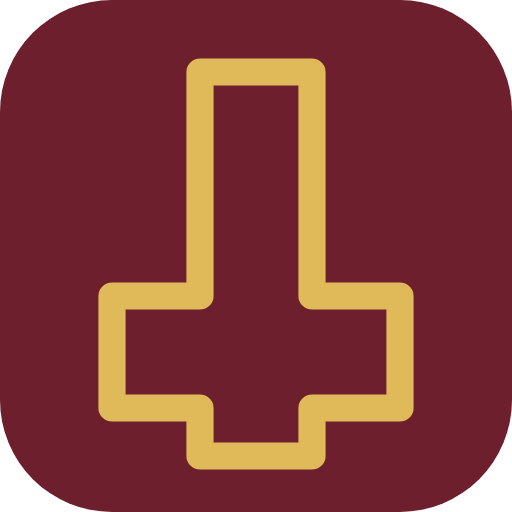
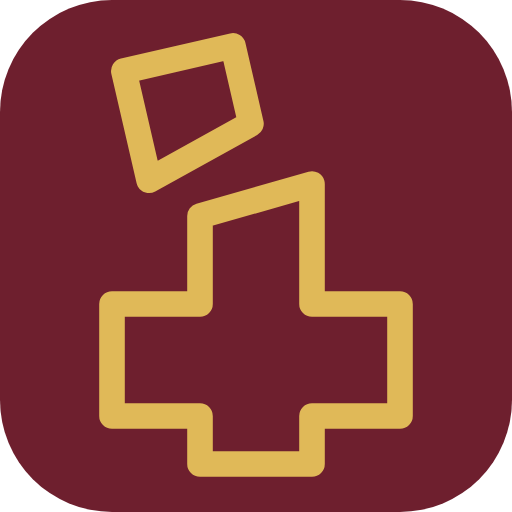
Break the cross, and cite the hadith it follows
- The brand mark is now a hollow, inverted cross broken through the shaft: the
  clean vector, the worn mask version, the inline header mark, the favicon and
  touch icons and the social preview are all redrawn
- The Credits page gains "The mark": the hadith that Jesus, son of Mary, will
  break the cross (Sahih al-Bukhari 2476), in Arabic and English with its
  references. The Arabic is set in Noto Naskh Arabic (SIL OFL), converted to
  WOFF2 and used there only; its licence notes are kept with the font

Claude-Session: https://claude.ai/code/session_01WFDRwNddsdWXiNVooqqfb9

Changed region(s): [[0.1875, 0.0625, 0.8125, 0.9375]]

diff --git a/assets/css/reader.css b/assets/css/reader.css
@@ -172,3 +172,19 @@
 .tbe-chapters .has-interlinear a { box-shadow: inset 0 -2px 0 var(--tbe-gold); }
 .tbe-il-index__note { color: var(--tbe-gold); font-size: 0.8em; }
 .tbe-il-index .tbe-ornament a { color: inherit; text-decoration: none; }
+
+/* The Arabic of the hadith on the Credits page: Noto Naskh Arabic (SIL OFL; see assets/fonts/LICENSE-NOTO-NASKH-ARABIC.txt), used here and nowhere else. */
+@font-face {
+	font-family: "Noto Naskh Arabic";
+	src: url("../fonts/NotoNaskhArabic-Regular.woff2") format("woff2");
+	font-weight: normal;
+	font-style: normal;
+	font-display: swap;
+	unicode-range: U+0600-06FF, U+0750-077F, U+08A0-08FF, U+FB50-FDFF, U+FE70-FEFF;
+}
+.tbe-hadith-ar { font-family: "Noto Naskh Arabic", serif; font-size: 1.45rem; line-height: 2.1; text-align: right; }
+
+/* Credits */
+.tbe-credits__quote { margin: 1rem 0; padding: 0.9rem 1.25rem; border-inline-start: 3px solid var(--tbe-gold); background: var(--tbe-surface); border-radius: var(--tbe-radius, 4px); }
+.tbe-credits__quote p { margin: 0 0 0.6rem; }
+.tbe-credits__quote cite { display: block; font-family: var(--tbe-ui); font-size: 0.85rem; font-style: normal; color: var(--tbe-muted); }

diff --git a/assets/css/base.css b/assets/css/base.css
@@ -127,7 +127,7 @@ a { text-underline-offset: 0.2em; text-decoration-thickness: 1px; }
 .tbe-brandmark--hero {
 	display: block;
 	width: clamp(4.5rem, 11vw, 6.5rem);
-	aspect-ratio: 355 / 680;
+	aspect-ratio: 362 / 729;
 	margin: 0 auto 1.5rem;
 	background: linear-gradient(180deg, var(--tbe-gold), var(--tbe-accent));
 	-webkit-mask: url("../img/brand/mark-textured.png") center / contain no-repeat;

diff --git a/inc/reader.php b/inc/reader.php
@@ -55,6 +55,10 @@ function tbe_view_credits(): string {
 	$out .= '<h2 class="tbe-ornament">' . esc_html__( 'Hebrew and Greek text and interlinear', 'tbe-child' ) . '</h2><p>'
 		. wp_kses_post( sprintf( /* translators: %s: link */ __( 'Hebrew: Westminster Leningrad Codex. Greek: Nestle-Aland 28th edition, with variants from the SBL Greek New Testament, the Textus Receptus and others. Both tagged by Tyndale House, Cambridge. Word-by-word data from %s, licensed CC BY 4.0.', 'tbe-child' ), '<a href="https://www.STEPBible.org" rel="noopener">STEP Bible</a>' ) ) . '</p>';
 
+	$out .= '<h2 class="tbe-ornament">' . esc_html__( 'The mark', 'tbe-child' ) . '</h2><p>' . esc_html__( 'The mark of the site is a cross that is hollow, upside down and broken. The breaking of the cross is taken from a report of the Prophet:', 'tbe-child' ) . '</p>'
+		. '<blockquote class="tbe-credits__quote"><p class="tbe-hadith-ar" lang="ar" dir="rtl">' . esc_html( 'حَدَّثَنَا عَلِيُّ بْنُ عَبْدِ اللَّهِ، حَدَّثَنَا سُفْيَانُ، حَدَّثَنَا الزُّهْرِيُّ، قَالَ أَخْبَرَنِي سَعِيدُ بْنُ الْمُسَيَّبِ، سَمِعَ أَبَا هُرَيْرَةَ ـ رضى الله عنه ـ عَنْ رَسُولِ اللَّهِ صلى الله عليه وسلم قَالَ: «لاَ تَقُومُ السَّاعَةُ حَتَّى يَنْزِلَ فِيكُمُ ابْنُ مَرْيَمَ حَكَمًا مُقْسِطًا، فَيَكْسِرَ الصَّلِيبَ، وَيَقْتُلَ الْخِنْزِيرَ، وَيَضَعَ الْجِزْيَةَ، وَيَفِيضَ الْمَالُ حَتَّى لاَ يَقْبَلَهُ أَحَدٌ».' ) . '</p><p>' . esc_html__( 'Narrated Abu Huraira: Allah’s Messenger (peace be upon him) said, “The Hour will not be established until the son of Mary (i.e. Jesus) descends amongst you as a just ruler, he will break the cross, kill the pigs, and abolish the Jizya tax. Money will be in abundance so that nobody will accept it (as charitable gifts).”', 'tbe-child' ) . '</p>'
+		. '<cite>' . esc_html__( 'Sahih al-Bukhari 2476, in the chapter “The breaking of the cross and the killing of the pigs”. In-book reference: Book 46, Hadith 37. USC-MSA web (English) reference: Vol. 3, Book 43, Hadith 656 (deprecated numbering scheme).', 'tbe-child' ) . '</cite></blockquote>';
+
 	$out .= '<h2 class="tbe-ornament">' . esc_html__( 'Typefaces', 'tbe-child' ) . '</h2><p>' . esc_html__( 'Bible text is set in the SBL BibLit, SBL Hebrew and SBL Greek fonts, by the Society of Biblical Literature.', 'tbe-child' ) . '</p><p>'
 		. wp_kses_post( sprintf( /* translators: %s: link */ __( 'The site name is set in Angel, a freeware font by JuliaL of %s.', 'tbe-child' ), '<a href="http://nocturne.simplenet.com/angel/" rel="noopener">Tangled in Destiny</a>' ) ) . '</p>';
 

diff --git a/inc/blocks.php b/inc/blocks.php
@@ -55,7 +55,7 @@ add_action(
 						// The hand-worn mark, coloured by the active scheme through a CSS mask.
 						return '<span class="tbe-brandmark tbe-brandmark--hero" aria-hidden="true"></span>';
 					}
-					return '<span class="tbe-brandmark" aria-hidden="true"><svg viewBox="0 0 340 665" focusable="false" fill="none"><path d="M135.75 7.75H202.25V460.75H331.25V526.25H202.25V656.25H135.75V526.25H7.75V460.75H135.75Z" stroke="currentColor" stroke-width="28" stroke-linejoin="round"/></svg></span>';
+					return '<span class="tbe-brandmark" aria-hidden="true"><svg viewBox="0 -52 340 717" focusable="false" fill="none" stroke="currentColor" stroke-width="26" stroke-linejoin="round"><path d="M135.75 210L144 216L159 202L174 217L190 204L202.25 209.5V460.75H331.25V526.25H202.25V656.25H135.75V526.25H7.75V460.75H135.75Z"/><path d="M135.75 7.75H202.25V209.5L190 204L174 217L159 202L144 216L135.75 210Z" transform="translate(-24 -40) rotate(-8 169 218)"/></svg></span>';
 				},
 			)
 		);

diff --git a/README.md b/README.md
@@ -76,7 +76,7 @@ A chapter can have a recording, timed word by word. The interlinear page then sh
 `data/commentary/cross-references.json` holds 32 critical cross-references, each written once and filed on **both** passages, so the note appears under the New Testament verse and under the Old Testament verse it cites. They cover how Paul reworks the Law (Galatians 3:10-17, Romans 3, 9 and 10, 1 Corinthians 9), how New Testament authors quote the Old Testament differently from its wording (Ephesians 4:8, Hebrews 10:5, Acts 7, Luke 3:36), and Jesus’ own use of Scripture (Matthew 5, 15 and 22, Mark 2 and 12, Luke 4, John 10 and 17). Each note sets the two ESV texts side by side and says plainly where they differ. They are tagged **Cross-reference**, imported and kept in step like the other starter commentary, and carry no typology: they compare wording and context only.
 
 ## Branding
-The brand mark is a hollow, inverted cross, kept as a clean vector (`assets/img/brand/mark.svg`) and as a worn, hand-drawn version (`mark-textured.png`, used as a mask so the active colour scheme tints it). It sits beside the site name in the header and above the title on the home page, and it takes its colour from the scheme, in light and dark. The site name itself is set in Angel.
+The brand mark is a hollow, inverted cross that is broken through the shaft, kept as a clean vector (`assets/img/brand/mark.svg`) and as a worn, hand-drawn version (`mark-textured.png`, used as a mask so the active colour scheme tints it). The break follows the report in Sahih al-Bukhari 2476 that Jesus, son of Mary, will break the cross on his return; it is cited, in English, on the Credits page. It sits beside the site name in the header and above the title on the home page, and it takes its colour from the scheme, in light and dark. The site name itself is set in Angel.
 
 `assets/img/brand/` also holds the favicon (`favicon.svg`, 16/32/48 px PNGs and `favicon.ico`), the touch icon (`apple-touch-icon.png`, `icon-192.png`, `icon-512.png`) and the 1200 × 630 social preview (`social-preview.png`). They are used unless a Site Icon is set under Appearance → Customize, which takes precedence. The theme also sets the browser theme colour from the scheme and the organisation logo in the structured data.
 
@@ -105,6 +105,6 @@ The ESV text is © Crossway. The copyright notice shown in the footer is editabl
 
 ## Fonts
 
-**Bible text only** is set in the SBL fonts in `assets/fonts/`: SBL BibLit for the ESV, SBL Hebrew for the Hebrew words and SBL Greek for the Greek words, via `assets/css/scripture.css`. The site name ("The Bible Exposed", in the header and on the home page) is set in **Angel** by JuliaL, a freeware font; its notes are kept in `assets/fonts/LICENSE-ANGEL-FONT.txt` and it is credited, with a link back to Tangled in Destiny, on the Credits page. Everything else (commentary, headings, menus, buttons) uses system fonts.
+**Bible text only** is set in the SBL fonts in `assets/fonts/`: SBL BibLit for the ESV, SBL Hebrew for the Hebrew words and SBL Greek for the Greek words, via `assets/css/scripture.css`. The site name ("The Bible Exposed", in the header and on the home page) is set in **Angel** by JuliaL, a freeware font; its notes are kept in `assets/fonts/LICENSE-ANGEL-FONT.txt` and it is credited, with a link back to Tangled in Destiny, on the Credits page. The Arabic of the hadith on the Credits page is set in **Noto Naskh Arabic** (SIL Open Font License; notes in `assets/fonts/LICENSE-NOTO-NASKH-ARABIC.txt`), used there and nowhere else. Everything else (commentary, headings, menus, buttons) uses system fonts.
 
 **Every font in the theme is WOFF2.** They are lossless conversions of the original TTFs, made with `node tools/ttf2woff2.js in.ttf out.woff2` (identical glyphs, much smaller). The site owner holds the SBL / Tiro Typeworks licence; its text is kept in `assets/fonts/LICENSE-SBL-FONTS.txt`.
